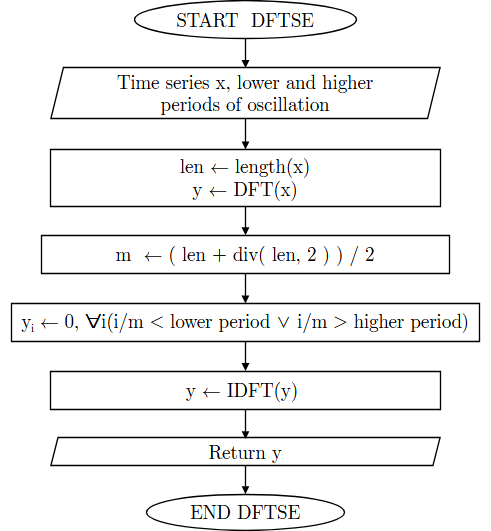
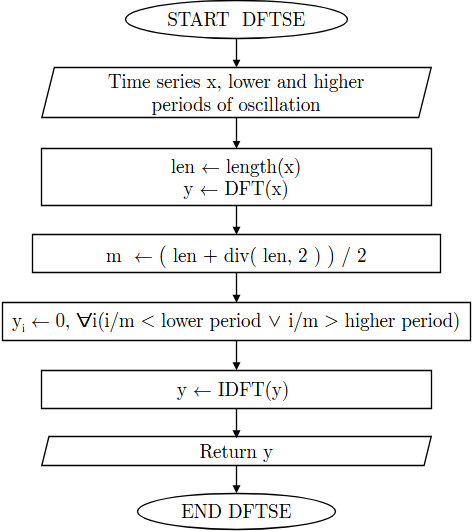
Update figures

Changed region(s): [[0.0, 0.0603, 1.0, 1.0], [0.5042, 0.0, 0.7415, 0.0603], [0.2669, 0.0, 0.4746, 0.0904]]

diff --git a/docs/index.html b/docs/index.html
@@ -79,7 +79,7 @@
 <strong>Corbae-Ouliaris Frequency Domain Filtering</strong><a class="anchor" aria-label="anchor" href="#corbae-ouliaris-frequency-domain-filtering"></a>
 </h2>
 <p>Corbae and Ouliaris (<a href="#ref-corbae2006">2006</a>) Frequency Domain Filter is used for extracting cycles from either both on stationary and non-stationary time series. This is one approximation of the ideal band pass filter of the series.</p>
-<p>The main idea of this filtering algorithm is illustrated in Fig. <a href="#ref-Figure1">1</a> and <a href="#ref-Figure2">2</a>. The main idea of the DFTSE subroutine is shown in Fig. <a href="#ref-Figure1">1</a>, where it includes DFT (Discrete Fourier Transform) of the times series, then frequencies lower and higher by periods of oscillation thresholds are assigned to zero and finally perform IDFT (Inverse Discrete Fourier Transform). Additional implementation details of this subroutine can be found at source code of the function <code><a href="reference/dftse.html">corbouli::dftse</a></code>.</p>
+<p>The main idea of this filtering algorithm is illustrated in Fig. <a href="#ref-Figure1">1</a> and <a href="#ref-Figure2">2</a>. The main idea of the DFTSE subroutine is shown in Fig. <a href="#ref-Figure1">1</a>, where DFT (Discrete Fourier Transform) of the times series, then frequencies lower and higher by periods of oscillation thresholds are assigned to zero and finally IDFT (Inverse Discrete Fourier Transform) are performed. Additional implementation details of this subroutine can be found at source code of the function <code><a href="reference/dftse.html">corbouli::dftse</a></code>.</p>
 <p align="center">
 <img src="reference/figures/figure1.png" alt="Fig. 1: DFTSE subroutine. DFT, censore and IDFT time series." width="50%"></p>
 <p class="caption" align="center">

diff --git a/docs/articles/Introduction.html b/docs/articles/Introduction.html
@@ -73,12 +73,12 @@ Domain Filter is used for extracting cycles from either both on
 stationary and non-stationary time series. This is one approximation of
 the ideal band pass filter of the series.</p>
 <p>The main idea of this filtering algorithm is illustrated in Fig. <a href="#ref-Figure1">1</a> and <a href="#ref-Figure2">2</a>. The main
-idea of the DFTSE subroutine is shown in Fig. <a href="#ref-Figure1">1</a>, where it includes DFT (Discrete Fourier
-Transform) of the times series, then frequencies lower and higher by
-periods of oscillation thresholds are assigned to zero and finally
-perform IDFT (Inverse Discrete Fourier Transform). Additional
-implementation details of this subroutine can be found at source code of
-the function <code><a href="../reference/dftse.html">corbouli::dftse</a></code>.</p>
+idea of the DFTSE subroutine is shown in Fig. <a href="#ref-Figure1">1</a>, where DFT (Discrete Fourier Transform) of the
+times series, then frequencies lower and higher by periods of
+oscillation thresholds are assigned to zero and finally IDFT (Inverse
+Discrete Fourier Transform) are performed. Additional implementation
+details of this subroutine can be found at source code of the function
+<code><a href="../reference/dftse.html">corbouli::dftse</a></code>.</p>
 <p align="center">
 <img src="figure1.png" alt="Fig. 1: DFTSE subroutine. DFT, censore and IDFT time series." width="50%"></p>
 <p class="caption" align="center">
